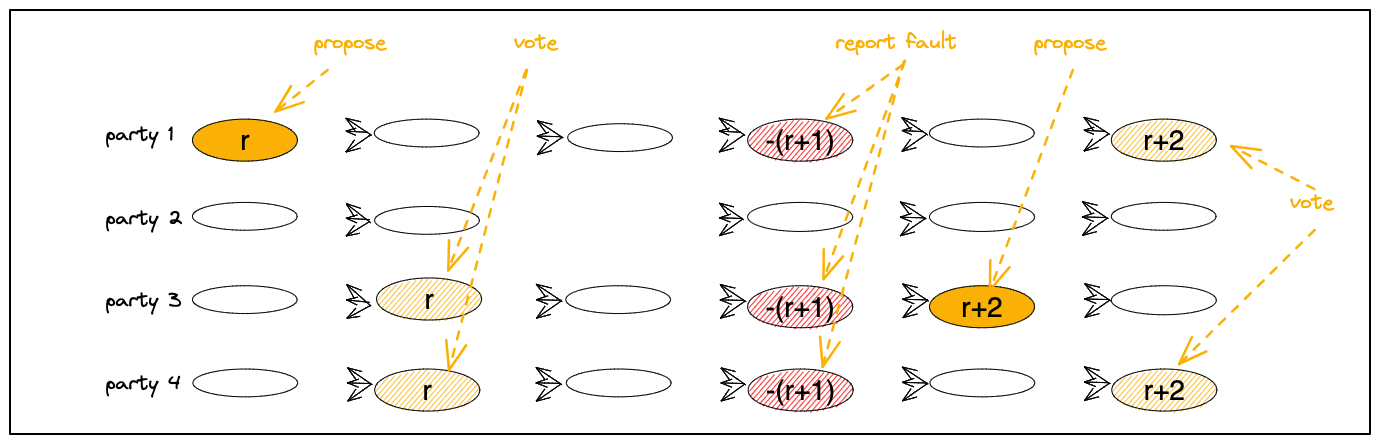
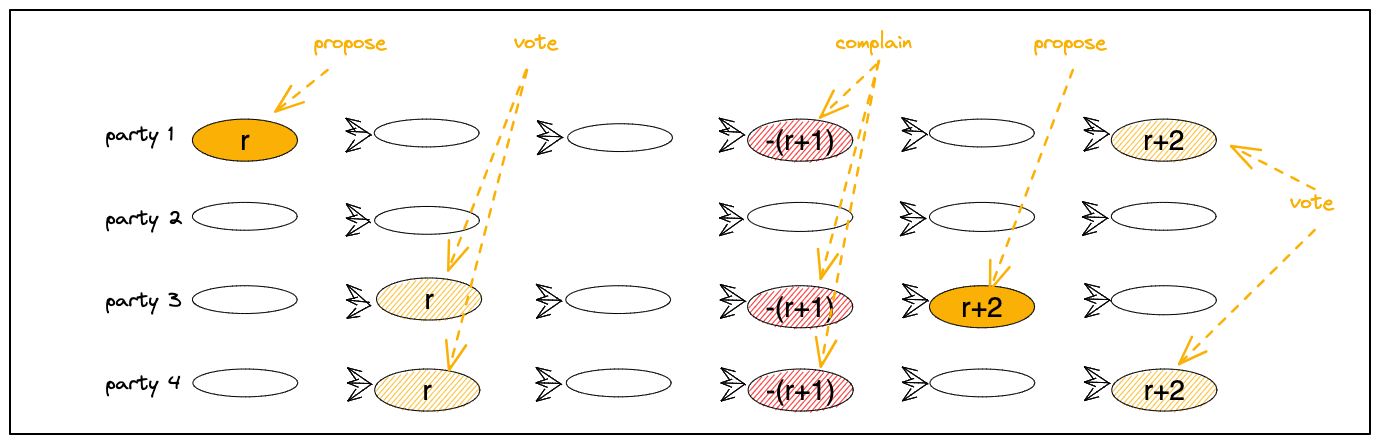
working on DAG draft

diff --git a/_drafts/DAG-BFT.md b/_drafts/DAG-BFT.md
@@ -223,7 +223,7 @@ Whenever a party invokes `broadcast()`, the transmitted message simply carries t
 There are various ways to implement DAG-T
 among N=3F+1 parties, at most F of which are presumed Byzantine faulty and the rest are honest.
 
-The key mechanism for reliability and non-equivocation is for parties to echo a digest of the first message they receive from a sender with a particular index. 
+**Echoing.** The key mechanism for reliability and non-equivocation is for parties to echo a digest of the first message they receive from a sender with a particular index. 
 When 2F+1 echoes are collected, the message can be delivered. 
 There are two ways to echo, one is all-to-all broadcast over authenticated point-to-point channels
 a la [Bracha Broadcast](https://core.ac.uk/download/pdf/82523202.pdf);
@@ -235,7 +235,7 @@ which is anyway the minimum necessary to spread the message.
 **Layering.** Transports are often constructed in layer-by-layer regime, as depicted in [**Figure 2**](#Figure-Disconnect) below. 
 In this regime, each sender is allowed one message per layer, and a message may refer only to messages in the layer preceding it.
 Layering is done so as to regulate transmissions and saturate network capacity,
-and has been demonstrated effective by various projects, including 
+and has been demonstrated to be highly effective by various projects, including 
 [Blockmania](https://arxiv.org/abs/1809.01620),
 [Aleph](https://arxiv.org/pdf/1908.05156.pdf), 
 and
@@ -357,14 +357,14 @@ Meanwhile, the DAG fills with messages that may become committed at the next vie
   _Proposals and votes in `view(r)` and `view(r+1)`, both committed._
 
 If the leader of a view is faulty or disconnected, parties will eventually time out and set their meta-information to minus the view-number, e.g., `-(r+1)` for a failure of `view(r+1)` . 
-Their next broadcasts are interpreted as reporting a failure of `view(r+1)`. 
-When a party sees 2F+1 reports that `view(r+1)` is faulty it enters `view(r+2)`. 
+Their next broadcasts are interpreted as complaining there is no progress in `view(r+1)`. 
+When a party sees 2F+1 complaints about `view(r+1)`, it enters `view(r+2)`. 
 
 In [**Figure 4**](#Figure-Fault) below, the first view `view(r)` proceeds normally. 
 However, no message marked `view(r+1)` by `leader(r+1)` arrives, showing as a missing oval. 
-Parties 1, 3, 4 report this by setting their meta-information to `-(r+1)`, showing as striped red ovals.
+Parties 1, 3, 4 complain about this by setting their meta-information to `-(r+1)`, showing as striped red ovals.
 
-After 2F+1 reports are collected, the leader of `view(r+2)` posts a messages that has meta-information set to `r+2`, taken as `proposal(r+2)`. 
+After 2F+1 complaints are collected, the leader of `view(r+2)` posts a messages that has meta-information set to `r+2`, taken as `proposal(r+2)`. 
 Note that this message has in its causal past messages carrying `-(r+1)` meta-information. 
 Hence, faulty views have utility in advancing the global sequence of transaction, just like any other view.
 
@@ -378,8 +378,8 @@ Hence, faulty views have utility in advancing the global sequence of transaction
 
 A slightly more complex scenario is depicted in [**Figure 5**](#Figure-Partial-Fault) below. 
 Here, `leader(r+1)` emits `proposal(r+1)` that receives one vote by party 1.
-However, the proposal is too slow to arrive at parties 3 and 4, and both parties report a view failure.
-There is no quorum enabling a commit in `view(r+1)`, nor entering `view(r+2)`. Eventually, party 1 also times out and reports a failure of `view(r+1)`. This enables `view(r+2)` to start. `view(r+2)` is similar to the scenario in [**Figure 4**](#Figure-Fault) above, except that when `proposal(r+2)` commits, it indirectly commits `proposal(r+1)`. 
+However, the proposal is too slow to arrive at parties 3 and 4, and both parties complain about a view failure.
+There is no quorum enabling a commit in `view(r+1)`, nor entering `view(r+2)`. Eventually, party 1 also times out and complains about `view(r+1)`. This enables `view(r+2)` to start. `view(r+2)` is similar to the scenario in [**Figure 4**](#Figure-Fault) above, except that when `proposal(r+2)` commits, it indirectly commits `proposal(r+1)`. 
 
   <span id="Figure-Partial-Fault"></span>
 
@@ -402,7 +402,7 @@ though a formal proof of correctness is beyond the scope of this post.
 * **Safety.** 
   Briefly, the safety of commits is as follows. If ever a `view(r)` proposal `proposal(r)` becomes committed, 
 then it is in the causal past of 2F+1 parties that voted for it.
-Any future view proposal must refer directly or indirectly to 2F+1 `view(r)` messages, of which F+1 are votes for `proposal(r)`.
+Any future view proposal must refer directly or indirectly to 2F+1 `view(r)` messages (votes or complaints), of which F+1 are votes for `proposal(r)`.
 Hence, any commit of a future view causally follows (hence, transitively re-commits) `proposal(r)`. 
 
 * **Liveness.** The protocol liveness during periods of synchrony stems from two key mechanisms. 
@@ -463,10 +463,10 @@ which means that Narwhal transmissions are blocked on Consensus protocol actions
 
 [Bullshark](https://arxiv.org/abs/2201.05677")
 builds BFT Consensus riding on Narwhal for the partial synchrony model.
-It is also a "zero message overhead" protocol over the DAG, but due to a rigid wave-by-wave structure, 
+It is designed with 8-layer waves driving commit, each layer purpose-built to serve a different step in the protocol.
+Bullshark is a "zero message overhead" protocol over the DAG, but due to a rigid wave-by-wave structure, 
 Narwhal transmissions are blocked by timers that are internal to the Consensus protocol.
-This can significantly hamper throughput when a leader is faulty or slow. 
-Bullshark is designed with 8-layer waves driving commit, each layer purpose-built to serve a different step in the protocol.
+This defies the whole purpose of separating the DAG transport from consensus, and could hamper throughput when a leader is faulty or slow. 
 
 Fin builds BFT Consensus riding on DAG-T for the partial synchrony model with "zero message overhead".
 Uniquely, it incurs no transmission delaying whatsoever.
